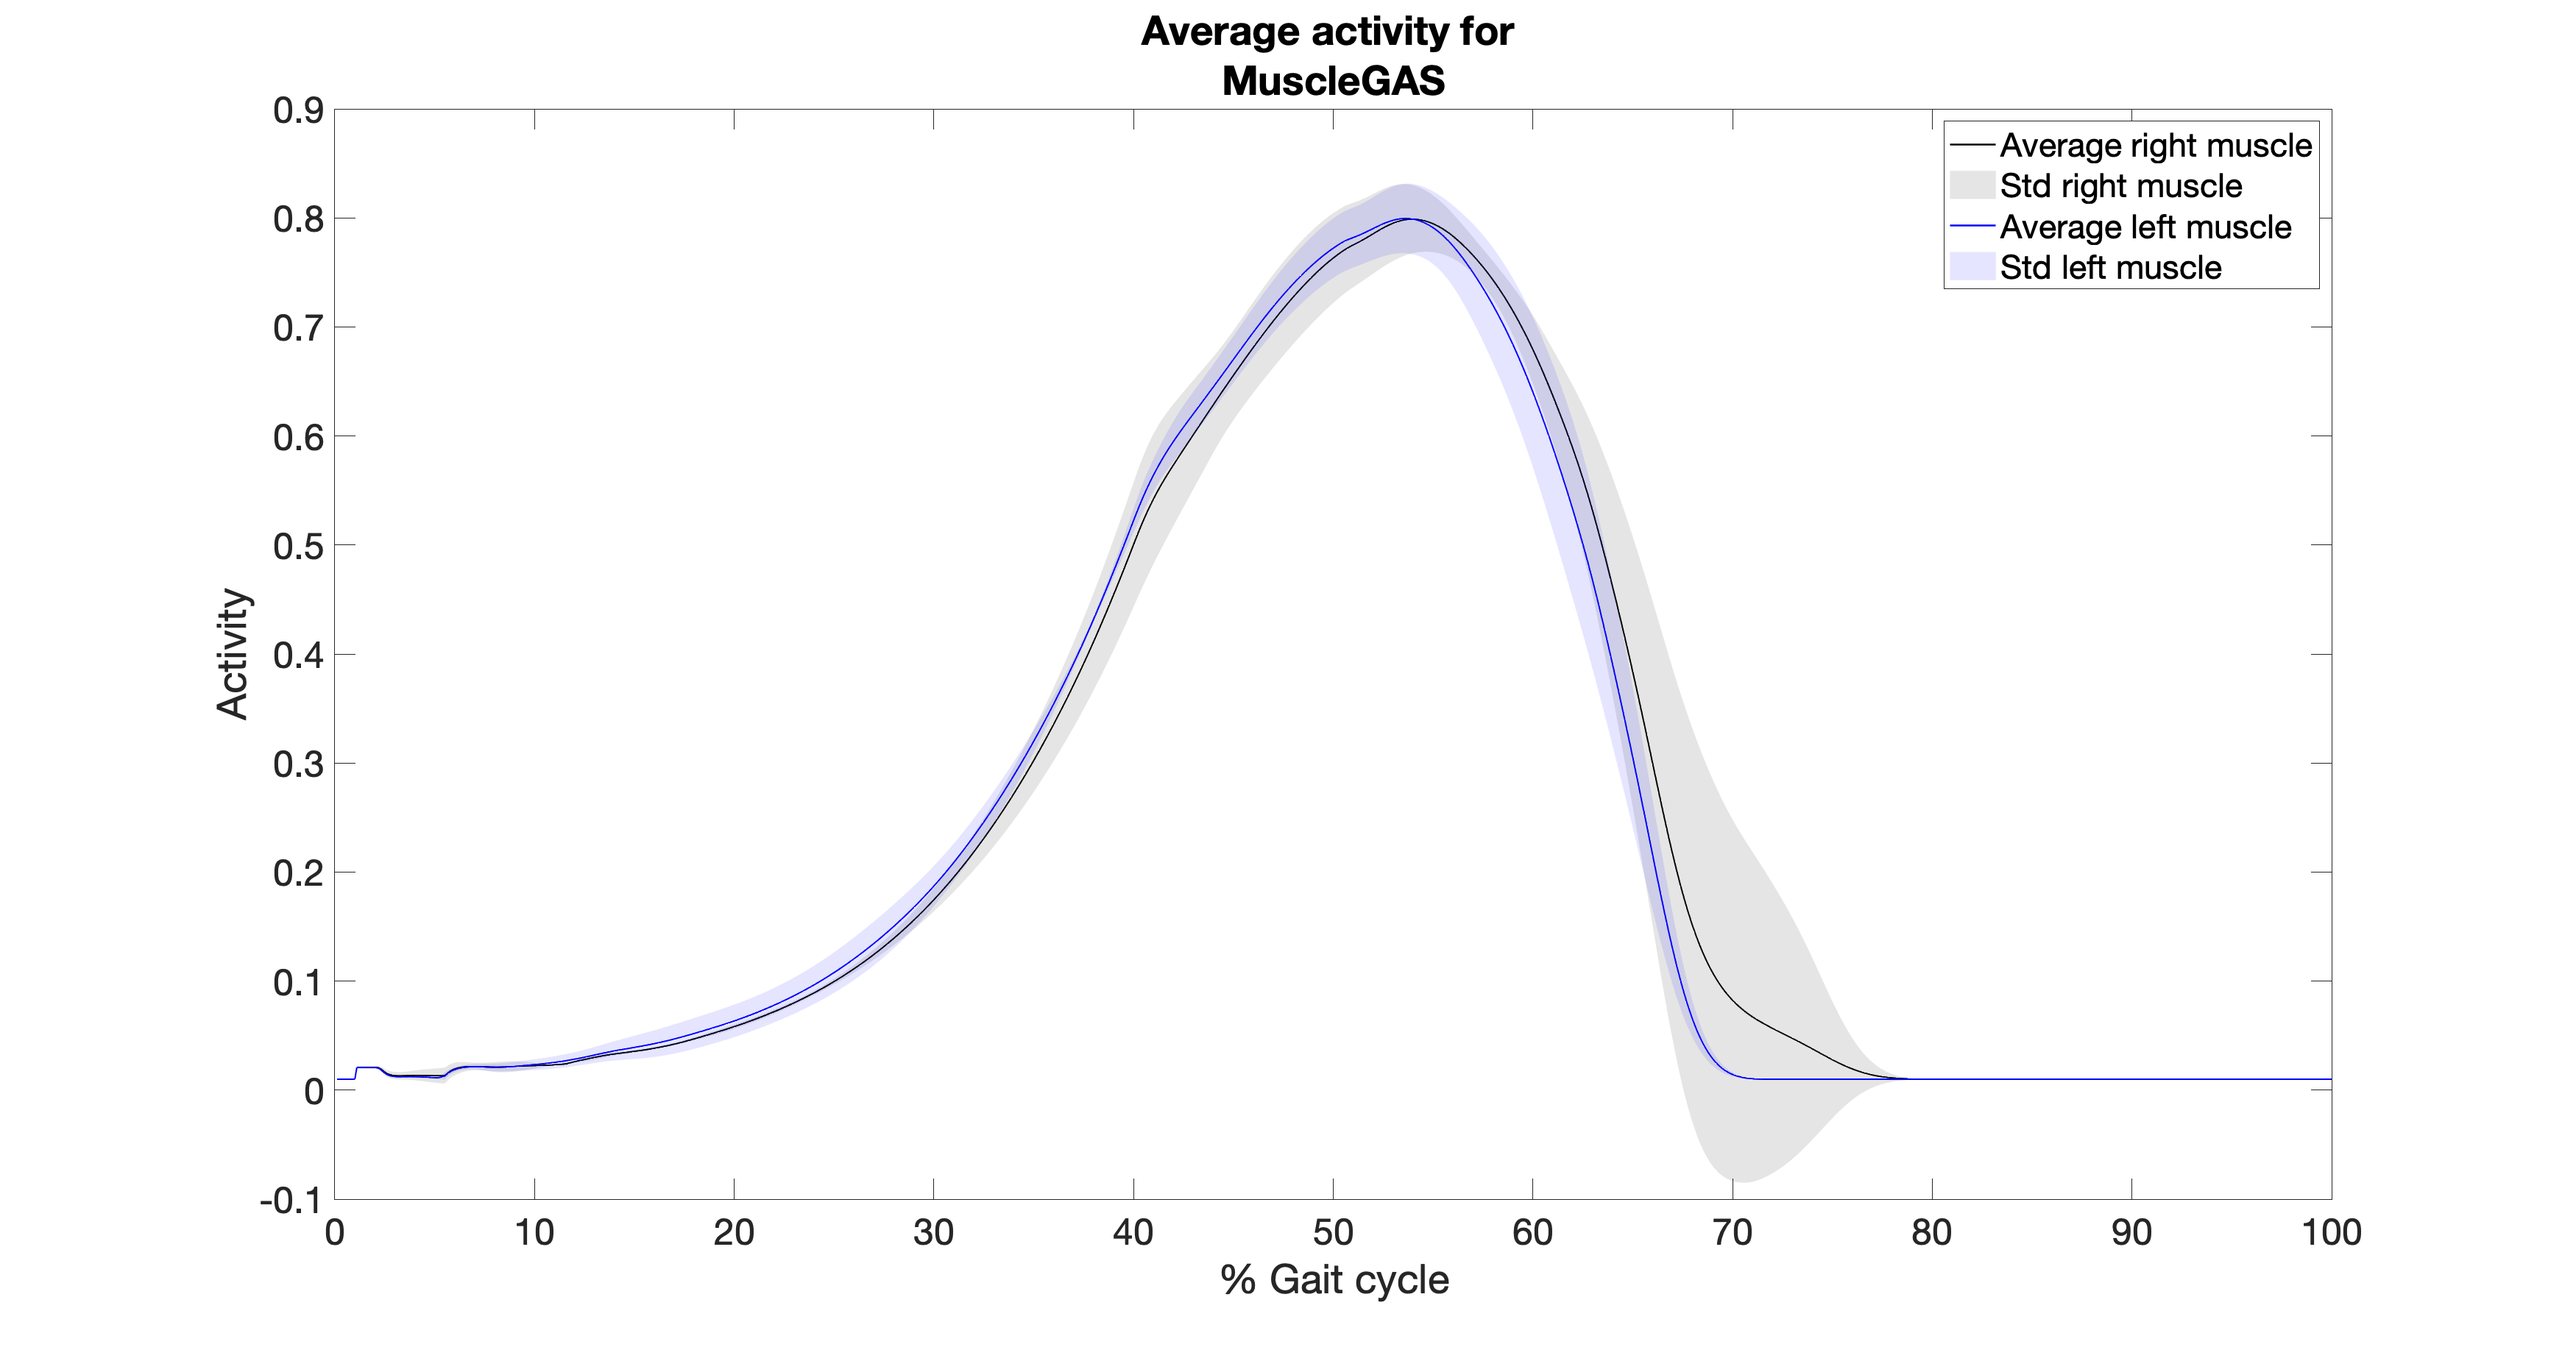
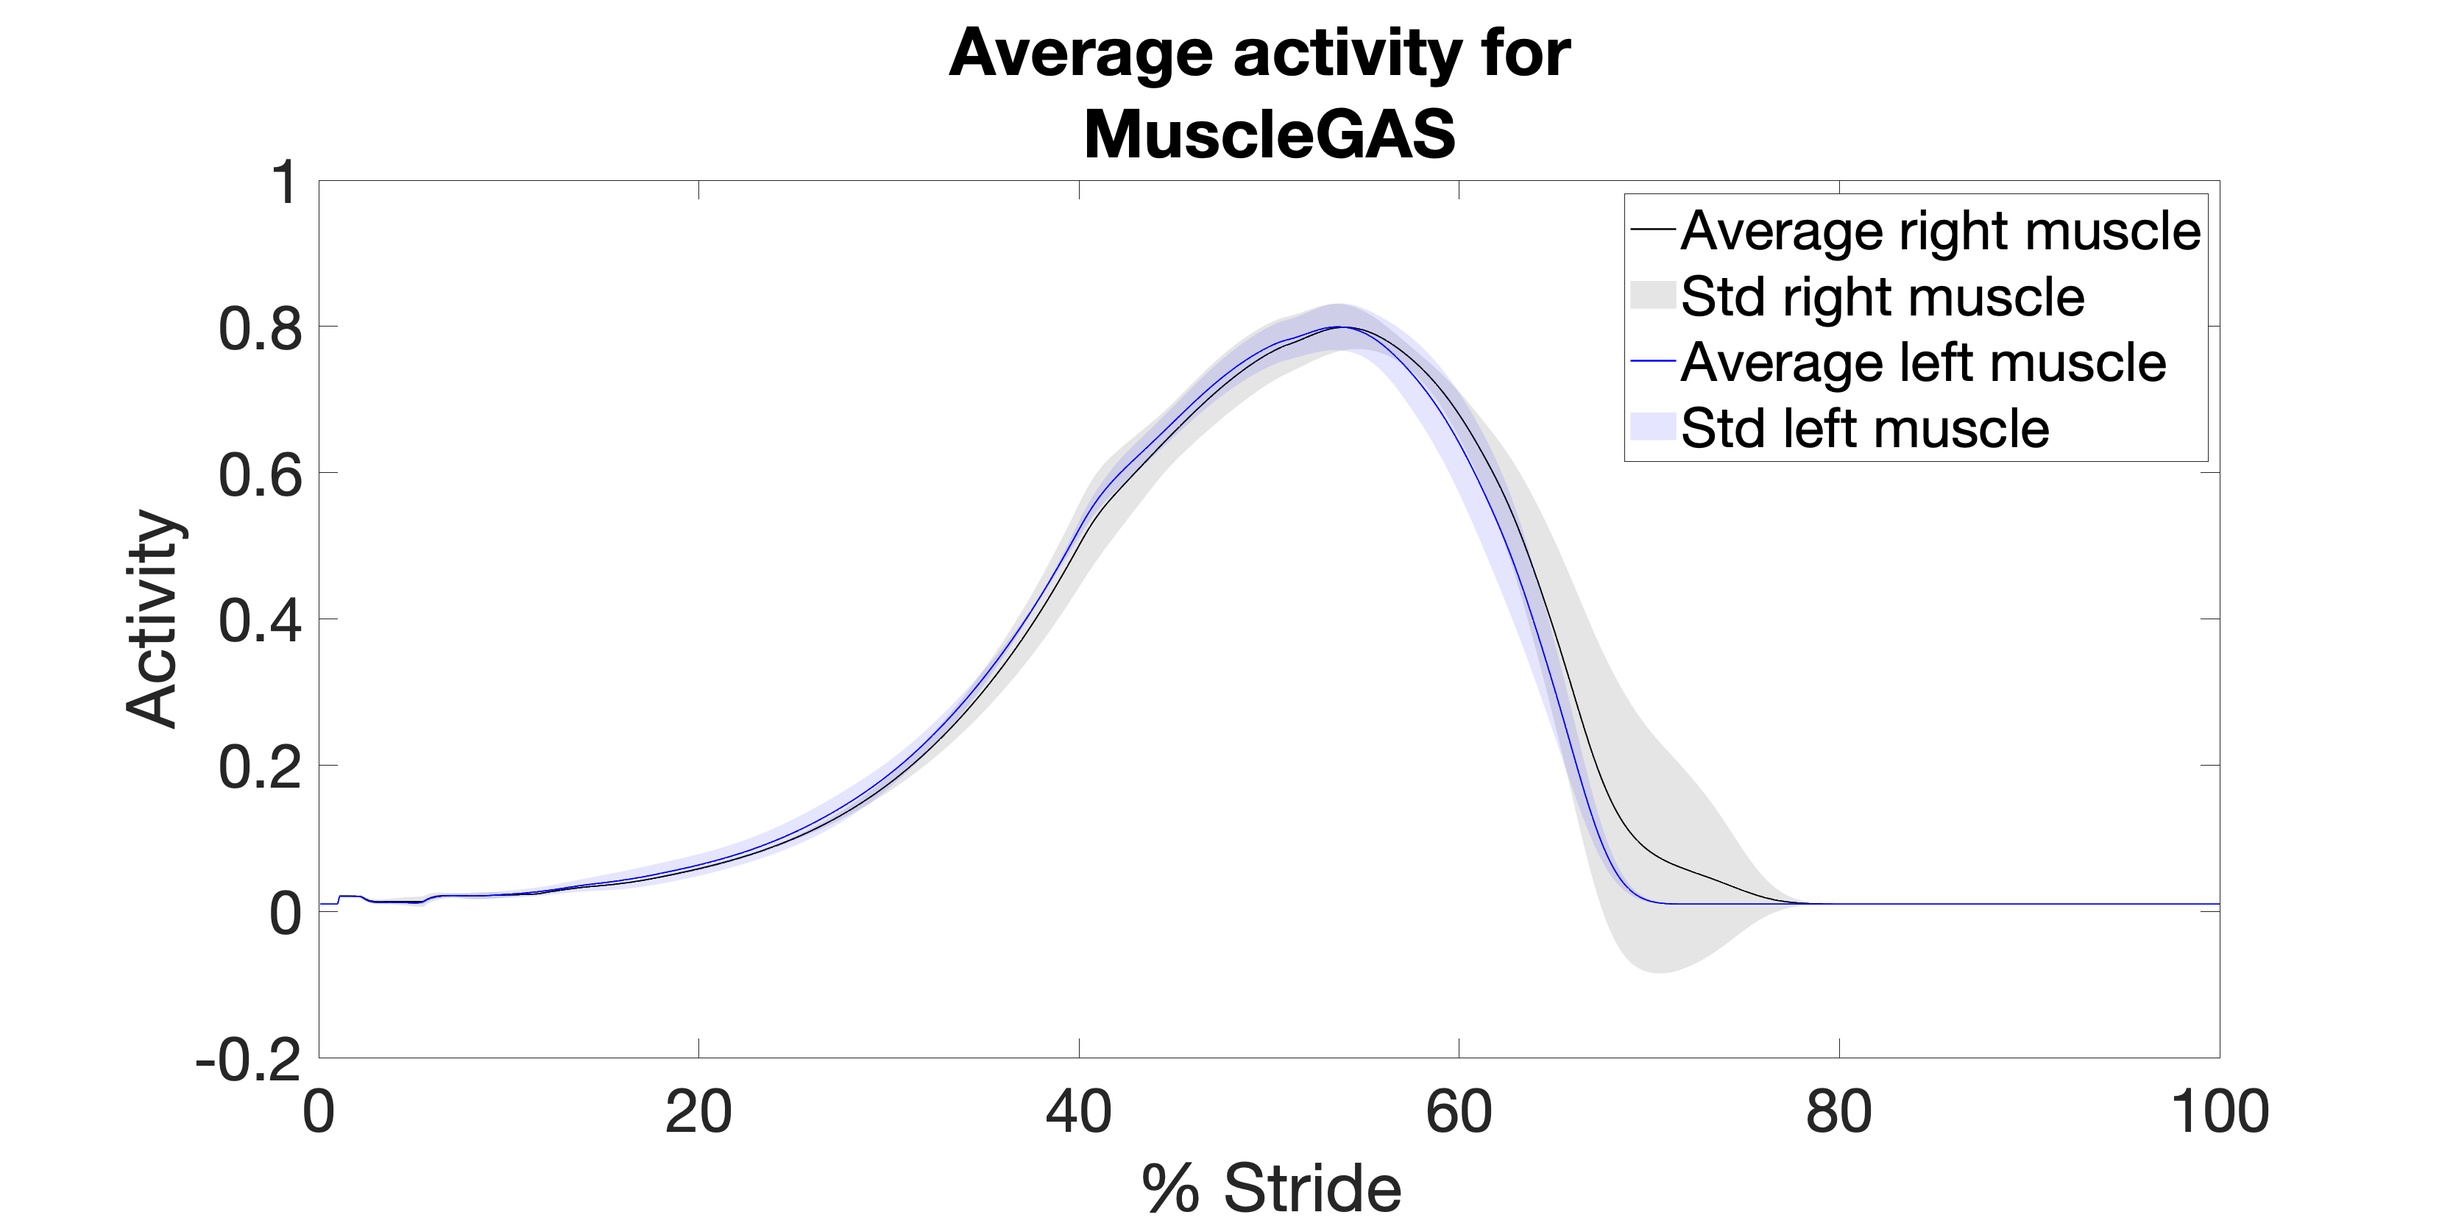
figures

diff --git a/GEYER_Assignment/exercise2_data/Ex2.m b/GEYER_Assignment/exercise2_data/Ex2.m
@@ -182,12 +182,12 @@ for muscle = 1: length(muscles)
     alpha(.1)
     
     ax = gca;
-    ax.FontSize = 24;
-    xlabel('% Gait cycle');
+    ax.FontSize = 40;
+    xlabel('% Stride');
     ylabel('Activity');
     legend('Average right muscle','Std right muscle','Average left muscle','Std left muscle');
     title({'Average activity for ',num2str(muscles{muscle})});
-    set(gcf,'Position',[0 0 1920 980]);
+    set(gcf,'Position',[0 0 1600 800]);
     saveas(gcf,['Activity', num2str(muscles{muscle})],'png');
 end
 %% Angles-interpolation
@@ -196,7 +196,7 @@ for i = 1:length(HS_right)-1
     for angle = 1: length(angles)
         current_signal = struct_angles.right.parsed.(angles{angle}){i};
         interpolated_signal = interp1(1:1:length(current_signal),current_signal,1:1:nbr_points,'nearest');
-        interpolated_signal_per.right.(angles{angle}){i} = interpolated_signal;
+        interpolated_signal_per.right.(angles{angle}){i} = rad2deg(interpolated_signal);
     end
 end
 % Left foot
@@ -204,7 +204,7 @@ for i = 1:length(HS_left)-1
     for angle = 1: length(angles)
         current_signal = struct_angles.left.parsed.(angles{angle}){i};
         interpolated_signal = interp1(1:1:length(current_signal),current_signal,1:1:nbr_points,'nearest');
-        interpolated_signal_per.left.(angles{angle}){i} = interpolated_signal;
+        interpolated_signal_per.left.(angles{angle}){i} = rad2deg(interpolated_signal);
     end
 end
 % Meand and std
@@ -247,12 +247,12 @@ for angle = 1: length(angles)
     patch(fill_x,fill_y,'b','EdgeColor','none');
     alpha(.1)
     ax = gca;
-    ax.FontSize = 24;
-    xlabel('% Gait cycle');
-    ylabel('Activity');
+    ax.FontSize = 40;
+    xlabel('% Stride');
+    ylabel('Degrees');
     title({'Average activity for',num2str(angles{angle})});
-    legend('Average right angle','Std right angle','Average left angle','Std left angle');
-    set(gcf,'Position',[0 0 1920 980]);
+    legend('Average right angle','Std right angle','Average left angle','Std left angle','Location','Best');
+    set(gcf,'Position',[0 0 1600 800]);
     saveas(gcf,['Activity', num2str(angles{angle})],'png');
 end
 
@@ -314,12 +314,12 @@ for torque= 1: length(torques)
     patch(fill_x,fill_y,'b','EdgeColor','none');
     alpha(.1)
     ax = gca;
-    ax.FontSize = 24;
-    xlabel('% Gait cycle');
-    ylabel('Activity');
-    title({'Average activity for right',num2str(torques{torque})});
+    ax.FontSize = 40;
+    xlabel('% Stride');
+    ylabel('Torque');
+    title({'Average activity for ',num2str(torques{torque})});
     legend('Average right torque','Std right torque','Average left torque','Std left torque');
-    set(gcf,'Position',[0 0 1920 980]);
+    set(gcf,'Position',[0 0 1600 800]);
     saveas(gcf,['Activity', num2str(torques{torque})],'png');
 end
 
